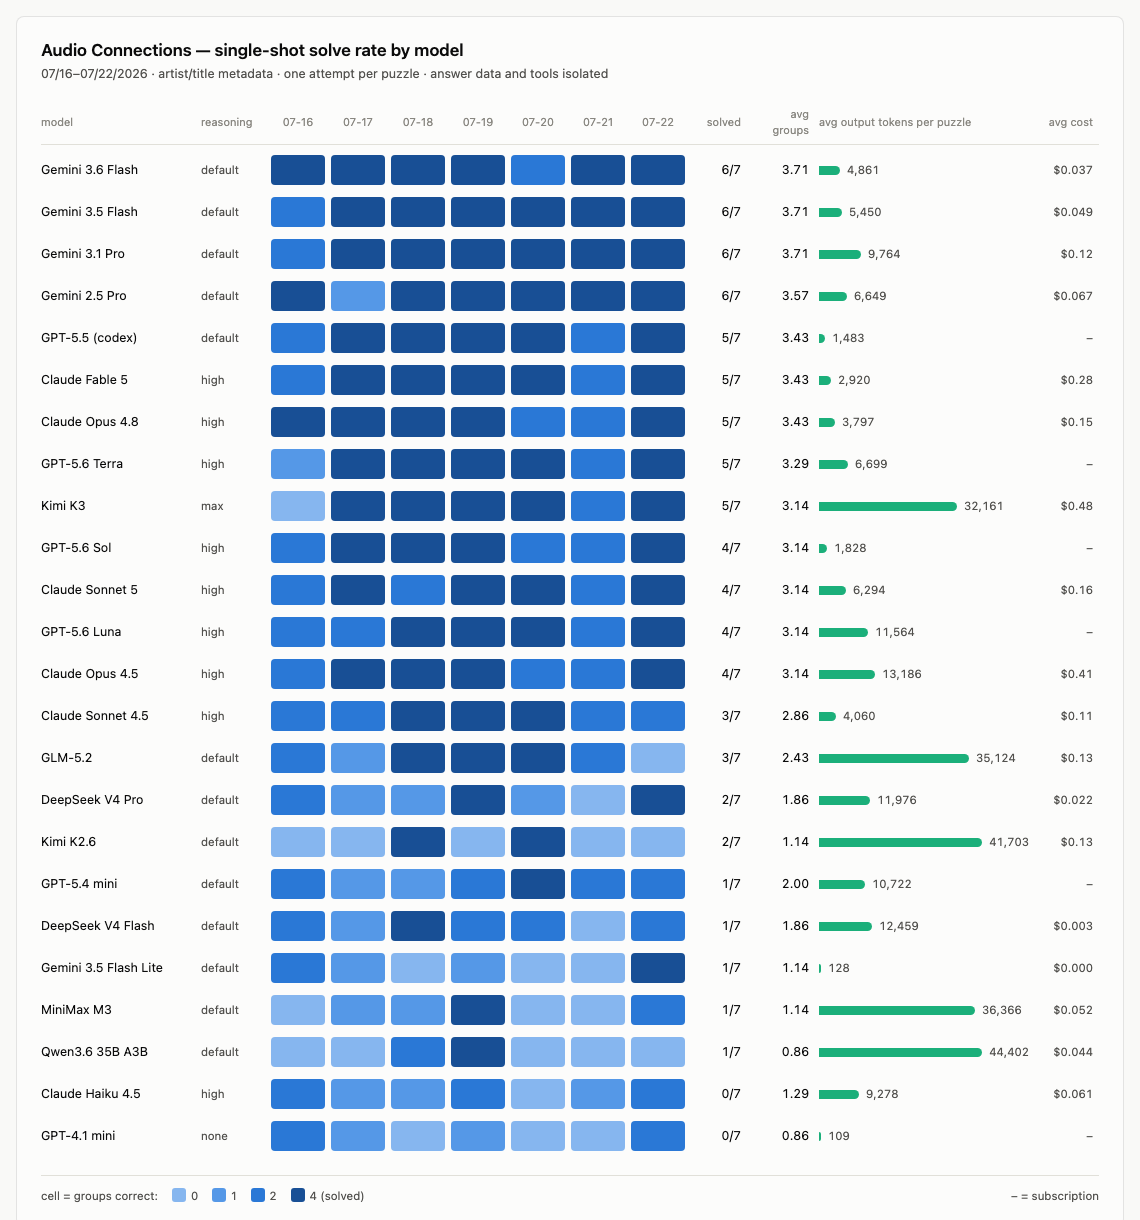
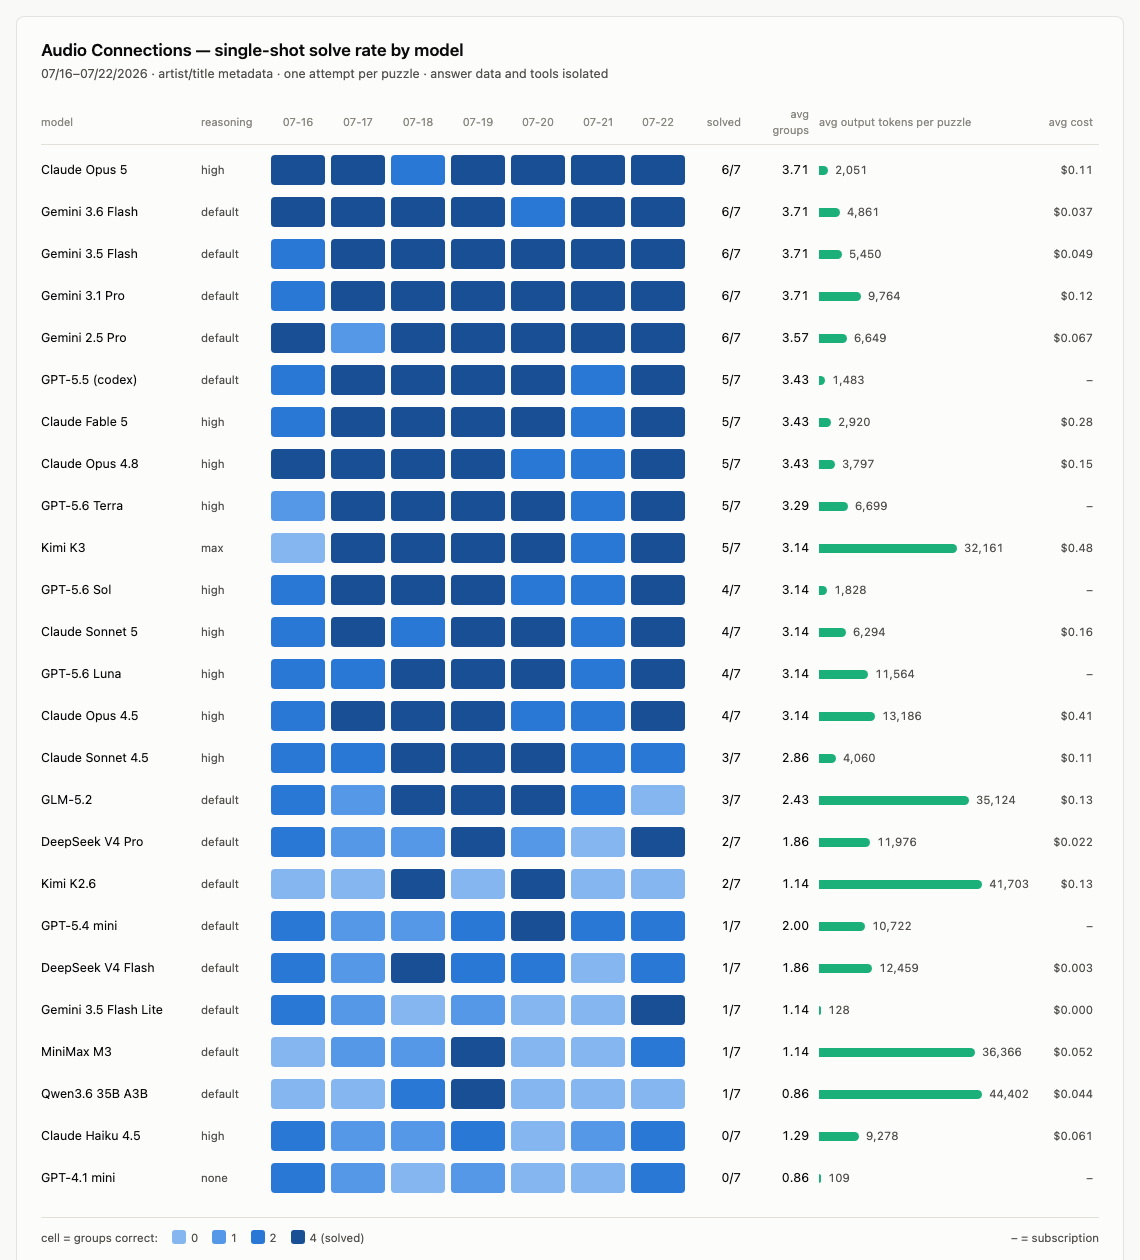
Benchmark Claude Opus 5

diff --git a/viz.py b/viz.py
@@ -2,8 +2,8 @@
 """Render results/runs.jsonl into the README report (viz.html).
 
 Screenshot with:
-  npx playwright screenshot --viewport-size "1140,1220" --color-scheme light viz.html assets/results-light-v2.png
-  npx playwright screenshot --viewport-size "1140,1220" --color-scheme dark viz.html assets/results-dark-v2.png
+  npx playwright screenshot --viewport-size "1140,1260" --color-scheme light viz.html assets/results-light-v2.png
+  npx playwright screenshot --viewport-size "1140,1260" --color-scheme dark viz.html assets/results-dark-v2.png
 """
 
 import json
@@ -22,6 +22,7 @@ BAR = "#1baf7a"
 LABELS = {
     "claude:claude-fable-5@high": "Claude Fable 5",
     "claude:claude-fable-5": "Claude Fable 5",
+    "claude:claude-opus-5@high": "Claude Opus 5",
     "claude:claude-opus-4-8@high": "Claude Opus 4.8",
     "claude:claude-opus-4-5@high": "Claude Opus 4.5",
     "claude:claude-sonnet-5@high": "Claude Sonnet 5",

diff --git a/README.md b/README.md
@@ -7,8 +7,8 @@ This is a **track-metadata benchmark**, not an audio-recognition benchmark. Each
 model sees the 16 artist/title pairs and must sort them into four groups of four.
 That isolates the Connections-style grouping problem from song recognition.
 
-![Audio Connections solve-rate grid for 24 models across seven daily puzzles](assets/results-light-v2.png#gh-light-mode-only)
-![Audio Connections solve-rate grid for 24 models across seven daily puzzles](assets/results-dark-v2.png#gh-dark-mode-only)
+![Audio Connections solve-rate grid for 25 models across seven daily puzzles](assets/results-light-v2.png#gh-light-mode-only)
+![Audio Connections solve-rate grid for 25 models across seven daily puzzles](assets/results-dark-v2.png#gh-dark-mode-only)
 
 ## Spoiler isolation
 
@@ -68,6 +68,7 @@ time data, the parsed guess, and raw model response.
 
 | model | reasoning | solved | avg groups | avg out tokens | avg cost |
 |---|---|---:|---:|---:|---:|
+| Claude Opus 5 | high | **6/7** | 3.71 | 2,051 | $0.11 |
 | Gemini 3.6 Flash | default | **6/7** | 3.71 | 4,861 | $0.037 |
 | Gemini 3.5 Flash | default | **6/7** | 3.71 | 5,450 | $0.049 |
 | Gemini 3.1 Pro | default | **6/7** | 3.71 | 9,764 | $0.12 |
@@ -93,9 +94,10 @@ time data, the parsed guess, and raw model response.
 | Claude Haiku 4.5 | high | **0/7** | 1.29 | 9,278 | $0.061 |
 | GPT-4.1 mini | none | **0/7** | 0.86 | 109 | – |
 
-No model swept the week. Four Gemini models tied at 6/7; Gemini 3.6 Flash was
-the cheapest and most token-efficient of them. Puzzle difficulty varied sharply:
-July 19 was solved by 18/24 models, while July 21 was solved by only 4/24.
+No model swept the week. Claude Opus 5 and four Gemini models tied at 6/7;
+Claude Opus 5 used the fewest output tokens of them, while Gemini 3.6 Flash was
+the cheapest. Puzzle difficulty varied sharply: July 19 was solved by 19/25
+models, while July 21 was solved by only 5/25.
 
 ## Test
 
